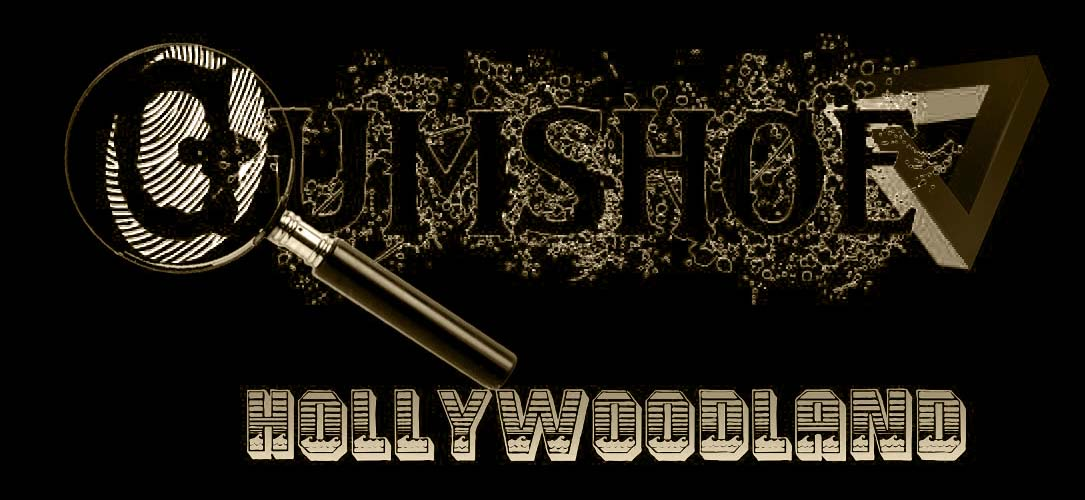
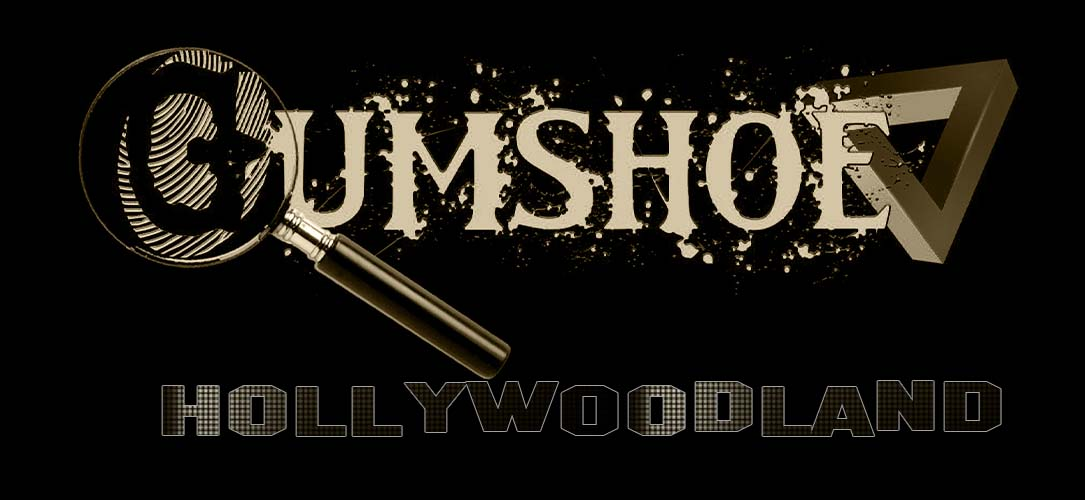
update the graphics for readme future adventures

diff --git a/style.css b/style.css
@@ -52,7 +52,7 @@ main {
 }
 
 .card3 {
-  max-width: fit-content;
+  max-width: 70%;
 }
 
 .card2 {

diff --git a/README.md b/README.md
@@ -35,11 +35,19 @@ Dice would roll, fists might fly, and the secrets whispered by this city would u
 <summary>Click here for more!</summary>
 <br>
 
+#### Main Page
+
 ![screenshot](./assets/readme/gumshoe-story-rm.png)
 
 ![screenshot](./assets/readme/gumshoe-banner-rm.png)
 
+#### Player Page
+
 ![screenshot](./assets/readme/gumshoe-classes-rm.png)
+
+#### Story Teller Page
+
+![screenshot](./assets/readme/gumshoe-main-rm.png)
 
 </details>
 
@@ -104,18 +112,22 @@ Will be adding more than just the starter adventure during future development.
 <br>
 
 - Gumshoe Hollywoodland
+
   ![Screenshot](./assets/readme/hollywoodland-sepia.jpg)
 
-  The smog hung heavy over Tinseltown, a sickly yellow halo above the hazy dreamscape. Here, ambition dripped like sweat under the merciless California sun, where fortunes were made and shattered faster than a celluloid kiss. Dames with million-dollar smiles hawked their wares, and chisel-jawed fellas with steely gazes dreamt of the silver screen. But beneath the glitz, a darkness festered. Whispers slithered through back alleys, tales of things unnatural, of creatures from beyond the frame. Hollywoodland, they called it. More like Hollyweirdland, a place where the scripts got stranger than anything dreamed up by a drunken screenwriter. You, chum, are the only shamus with the guts (and the bottle) to wade through this celluloid nightmare.
+  > The smog hung heavy over Tinseltown, a sickly yellow halo above the hazy dreamscape. Here, ambition dripped like sweat under the merciless California sun, where fortunes were made and shattered faster than a celluloid kiss. Dames with million-dollar smiles hawked their wares, and chisel-jawed fellas with steely gazes dreamt of the silver screen. But beneath the glitz, a darkness festered. Whispers slithered through back alleys, tales of things unnatural, of creatures from beyond the frame. Hollywoodland, they called it. More like Hollyweirdland, a place where the scripts got stranger than anything dreamed up by a drunken screenwriter. You, chum, are the only shamus with the guts (and the bottle) to wade through this celluloid nightmare.
 
 - Gumshoe Russian Nights
+
   ![Screenshot](./assets/readme/russiannights-sepia.jpg)
 
-  Moscow, a frozen tomb bathed in perpetual twilight. Not exactly your typical tourist trap. You, a gumshoe with a nose for trouble and a taste for cheap vodka, were partnered with Nika Arovka, a Soviet ambassador with a smile too sharp and eyes like glacial ice. Whispers of strange men in uniforms and ancient alien devices with world-ending power sent you both hurtling through this frozen hell. Tracked once again by the Mysterious Penrose Division: you, a down-on-your-luck detective, and a femme fatale with buried secrets, were all that stood between oblivion and a world cracked open like a rotten egg.
+  > Moscow, a frozen tomb bathed in perpetual twilight. Not exactly your typical tourist trap. You, a gumshoe with a nose for trouble and a taste for cheap vodka, were partnered with Nika Arovka, a Soviet ambassador with a smile too sharp and eyes like glacial ice. Whispers of strange men in uniforms and ancient alien devices with world-ending power sent you both hurtling through this frozen hell. Tracked once again by the Mysterious Penrose Division: you, a down-on-your-luck detective, and a femme fatale with buried secrets, were all that stood between oblivion and a world cracked open like a rotten egg.
 
 - Gumshoe Agents of the Multiverse
-  ![Screenshot](./assets/readme/multiverse-sepia.jpg)
-  The last case went sideways faster than a greased getaway car. Now, you find yourself yanked from the familiar grime and grit and deposited in... well, who even knows? The Penrose Division, that's what they call themselves. Seems this rabbit hole runs deeper than a bootleg speakeasy. Multiverse travel, alternate realities, alien threats, the whole kit and kaboodle. All under the steely gaze of your new boss, April Sunday. A dame with a name that wouldn't be out of place in a bygone era, stuck in a world that makes yesterday's case look like a walk in the park. One thing's for sure, shamus: the gloves are off. Crack the case, stop whatever's bleeding through the seams of reality, and maybe, just maybe, impress Ms. Sunday enough to learn the mystery that started this whole adventure!
+
+  ![Screenshot](./assets/readme/multiverse.jpg)
+
+  > The last case went sideways faster than a greased getaway car. Now, you find yourself yanked from the familiar grime and grit and deposited in... well, who even knows? The Penrose Division, that's what they call themselves. Seems this rabbit hole runs deeper than a bootleg speakeasy. Multiverse travel, alternate realities, alien threats, the whole kit and kaboodle. All under the steely gaze of your new boss, April Sunday. A dame with a name that wouldn't be out of place in a bygone era, stuck in a world that makes yesterday's case look like a walk in the park. One thing's for sure, shamus: the gloves are off. Crack the case with the help of your new partner Nika Arovak, stop whatever's bleeding through the seams of reality, and maybe, just maybe, impress Ms. Sunday enough to learn the mystery that started this whole adventure!
 
   </details>
 
